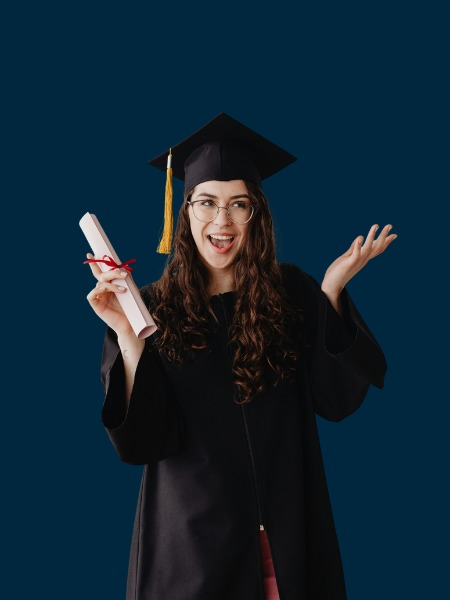
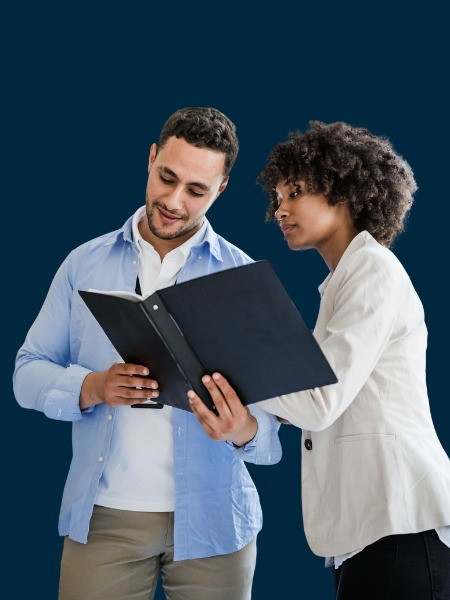
registeration page update

diff --git a/resources/views/pages/auth/register.blade.php b/resources/views/pages/auth/register.blade.php
@@ -106,8 +106,37 @@
         font-size: 13px;
     }
 
-        {
+    .form-control,
+    select {
         font-size: 13px;
+        background: #fff;
+        color: #000;
+    }
+
+    /* Hide conditional fields initially */
+    .conditional-fields {
+        display: none;
+    }
+
+    /* Terms checkbox label */
+    .terms-label {
+        font-size: 13px;
+        color: #fff;
+        user-select: none;
+    }
+
+    /* For mobile and country code side by side */
+    .mobile-group {
+        display: flex;
+        gap: 8px;
+    }
+
+    .mobile-group select {
+        flex: 0 0 100px;
+    }
+
+    .mobile-group input {
+        flex: 1;
     }
 </style>
 
@@ -131,7 +160,7 @@
                             <span>5</span>
                         </div>
 
-                        <form id="multiStepForm">
+                        <form id="multiStepForm" onsubmit="return false;">
 
                             {{-- STEP 1 --}}
                             <div class="form-step active">
@@ -147,7 +176,7 @@
                                 </div>
                             </div>
 
-                            {{-- STEP 2 --}}
+                            {{-- STEP 2: PERSONAL INFO --}}
                             <div class="form-step">
                                 <div class="row align-items-center g-4">
                                     <div class="col-md-6 step-image img-left">
@@ -155,56 +184,169 @@
                                     </div>
                                     <div class="col-md-6 step-form">
                                         <h6 class="mb-3 text-light">Personal Information</h6>
-                                        <input class="form-control  mb-4" placeholder="Full Name">
-                                        <input class="form-control  mb-4" placeholder="Email">
-                                        <input class="form-control  mb-4" placeholder="Phone">
-                                        <input type="date" class="form-control ">
+                                        <label for="fullName" class="text-light">Full Name</label>
+                                        <input id="fullName" name="fullName" type="text" class="form-control mb-3"
+                                            placeholder="Full Name" required>
+
+                                        <label for="cnic" class="text-light">CNIC / Passport No</label>
+                                        <input id="cnic" name="cnic" type="text" class="form-control mb-3"
+                                            placeholder="CNIC / Passport No" required>
+
+                                        <label for="personalEmail" class="text-light">Personal Email</label>
+                                        <input id="personalEmail" name="personalEmail" type="email"
+                                            class="form-control mb-3" placeholder="Personal Email" required>
+
+                                        <label class="text-light">Mobile Number</label>
+                                        <div class="mobile-group mb-3">
+                                            <select id="countryCode" name="countryCode" class="form-control" required>
+                                                <option value="+92" selected>+92 (PK)</option>
+                                                <option value="+1">+1 (US)</option>
+                                                <option value="+44">+44 (UK)</option>
+                                                <option value="+61">+61 (AU)</option>
+                                                <!-- Add more country codes as needed -->
+                                            </select>
+                                            <input id="mobileNumber" name="mobileNumber" type="tel"
+                                                class="form-control" placeholder="Mobile Number" required
+                                                pattern="[0-9]{7,15}" title="Please enter valid number">
+                                        </div>
+
+                                        <label for="currentCountry" class="text-light">Current Country</label>
+                                        <select id="currentCountry" name="currentCountry" class="form-control mb-3"
+                                            required>
+                                            <option value="" disabled selected>Select Country</option>
+                                            <option value="Pakistan">Pakistan</option>
+                                            <option value="United States">United States</option>
+                                            <option value="United Kingdom">United Kingdom</option>
+                                            <option value="Australia">Australia</option>
+                                            <!-- Add more countries as needed -->
+                                        </select>
+
+                                        <label for="currentCity" class="text-light">Current City</label>
+                                        <select id="currentCity" name="currentCity" class="form-control mb-3" required>
+                                            <option value="" disabled selected>Select City</option>
+                                            <!-- Cities could dynamically load based on country selection, example static list: -->
+                                            <option value="Karachi">Karachi</option>
+                                            <option value="Lahore">Lahore</option>
+                                            <option value="Islamabad">Islamabad</option>
+                                            <option value="New York">New York</option>
+                                            <option value="London">London</option>
+                                            <option value="Sydney">Sydney</option>
+                                        </select>
                                     </div>
                                 </div>
                             </div>
 
-                            {{-- STEP 3 --}}
+                            {{-- STEP 3: EDUCATION --}}
                             <div class="form-step">
                                 <div class="row align-items-center g-4">
                                     <div class="col-md-6 step-form">
                                         <h6 class="mb-3 text-light">Education</h6>
-                                        <input class="form-control  mb-4" placeholder="Qualification">
-                                        <input class="form-control  mb-4" placeholder="Institute">
-                                        <input class="form-control  mb-4" placeholder="Passing Year">
-                                        <input class="form-control " placeholder="CGPA / Grade">
+
+                                        <label for="nustRegNo" class="text-light">NUST Registration Number</label>
+                                        <input id="nustRegNo" name="nustRegNo" type="text" class="form-control mb-3"
+                                            placeholder="NUST Registration Number" required>
+
+                                        <label for="degreeName" class="text-light">Degree Name</label>
+                                        <select id="degreeName" name="degreeName" class="form-control mb-3" required>
+                                            <option value="" disabled selected>Select Degree</option>
+                                            <option value="Bachelors">Bachelors</option>
+                                            <option value="Masters">Masters</option>
+                                            <option value="PhD">PhD</option>
+                                        </select>
+
+                                        <label for="school" class="text-light">School</label>
+                                        <select id="school" name="school" class="form-control mb-3" required>
+                                            <option value="" disabled selected>Select School</option>
+                                            <option value="School of Engineering">School of Engineering</option>
+                                            <option value="School of Business">School of Business</option>
+                                            <option value="School of Science">School of Science</option>
+                                            <!-- Add more schools as needed -->
+                                        </select>
+
+                                        <label for="discipline" class="text-light">Discipline</label>
+                                        <select id="discipline" name="discipline" class="form-control mb-3" required>
+                                            <option value="" disabled selected>Select Discipline</option>
+                                            <option value="Computer Science">Computer Science</option>
+                                            <option value="Electrical Engineering">Electrical Engineering</option>
+                                            <option value="Mechanical Engineering">Mechanical Engineering</option>
+                                            <option value="Business Administration">Business Administration</option>
+                                            <!-- Add more disciplines as needed -->
+                                        </select>
+
+                                        <label for="enrolmentYear" class="text-light">Enrolment Year</label>
+                                        <input id="enrolmentYear" name="enrolmentYear" type="number" min="1900"
+                                            max="2100" class="form-control mb-3" placeholder="Enrolment Year"
+                                            required>
+
+                                        <label for="graduationYear" class="text-light">Graduation Year</label>
+                                        <input id="graduationYear" name="graduationYear" type="number"
+                                            min="1900" max="2100" class="form-control mb-3"
+                                            placeholder="Graduation Year" required>
                                     </div>
                                     <div class="col-md-6 step-image img-right">
-                                        <img src="{{ asset('templates/img/register/a.jpeg') }}">
+                                        <img src="{{ asset('templates/img/register/b.jpeg') }}">
                                     </div>
                                 </div>
                             </div>
 
-                            {{-- STEP 4 --}}
+                            {{-- STEP 4: PROFESSIONAL --}}
                             <div class="form-step">
                                 <div class="row align-items-center g-4">
                                     <div class="col-md-6 step-image img-left">
-                                        <img src="{{ asset('templates/img/register/a.jpeg') }}">
+                                        <img src="{{ asset('templates/img/register/c.jpeg') }}">
                                     </div>
                                     <div class="col-md-6 step-form">
                                         <h6 class="mb-3 text-light">Professional</h6>
-                                        <input class="form-control  mb-4" placeholder="Profession">
-                                        <input class="form-control  mb-4" placeholder="Experience">
-                                        <input class="form-control  mb-4" placeholder="Company">
-                                        <input class="form-control " placeholder="Location">
+
+                                        <label for="currentStatus" class="text-light">Current Status</label>
+                                        <select id="currentStatus" name="currentStatus" class="form-control mb-3"
+                                            required>
+                                            <option value="" disabled selected>Select Status</option>
+                                            <option value="Employed">Employed</option>
+                                            <option value="Self Employed">Self Employed</option>
+                                            <option value="Not Currently Employed">Not Currently Employed</option>
+                                        </select>
+
+                                        <div id="conditionalFields" class="conditional-fields">
+                                            <label for="currentOrganization" class="text-light">Current
+                                                Organization</label>
+                                            <input id="currentOrganization" name="currentOrganization" type="text"
+                                                class="form-control mb-3" placeholder="Current Organization">
+
+                                            <label for="designation" class="text-light">Designation</label>
+                                            <input id="designation" name="designation" type="text"
+                                                class="form-control mb-3" placeholder="Designation">
+                                        </div>
                                     </div>
                                 </div>
                             </div>
 
-                            {{-- STEP 5 --}}
+                            {{-- STEP 5: SECURITY --}}
                             <div class="form-step">
                                 <div class="row align-items-center g-4">
                                     <div class="col-md-6 step-form">
                                         <h6 class="mb-3 text-light">Security</h6>
-                                        <input type="password" class="form-control  mb-4" placeholder="Password">
-                                        <input type="password" class="form-control " placeholder="Confirm Password">
+
+                                        <label for="password" class="text-light">Password</label>
+                                        <input id="password" name="password" type="password"
+                                            class="form-control mb-3" placeholder="Password" required
+                                            pattern="(?=.*\d)(?=.*[a-z])(?=.*[A-Z])(?=.*[\W_]).{8,}"
+                                            title="Must contain at least one uppercase, one lowercase, one special character, one number and minimum 8 characters">
+
+                                        <label for="confirmPassword" class="text-light">Confirm Password</label>
+                                        <input id="confirmPassword" name="confirmPassword" type="password"
+                                            class="form-control mb-3" placeholder="Confirm Password" required>
+
+                                        <div class="form-check mt-3">
+                                            <input class="form-check-input" type="checkbox" id="termsCheck" required>
+                                            <label class="form-check-label terms-label" for="termsCheck">
+                                                I agree to the <a href="#" class="text-warning">Terms and
+                                                    Conditions</a>
+                                            </label>
+                                        </div>
                                     </div>
                                     <div class="col-md-6 step-image img-right">
-                                        <img src="{{ asset('templates/img/register/a.jpeg') }}">
+                                        <img src="{{ asset('templates/img/register/d.jpeg') }}">
                                     </div>
                                 </div>
                             </div>
@@ -223,12 +365,38 @@
         </div>
     </div>
 
+    <!-- Modal -->
+    <div class="modal fade" id="registrationSuccessModal" tabindex="-1"
+        aria-labelledby="registrationSuccessModalLabel" aria-hidden="true">
+        <div class="modal-dialog modal-dialog-centered">
+            <div class="modal-content text-dark">
+                <div class="modal-header">
+                    <h5 class="modal-title" id="registrationSuccessModalLabel">Registration Successful</h5>
+                    <button type="button" class="btn-close" data-bs-dismiss="modal" aria-label="Close"></button>
+                </div>
+                <div class="modal-body">
+                    <p>Thank you for registering!</p>
+                    <p>Once your account is verified, you’ll be able to log in and access your account.</p>
+                    <p>If your account is not verified after 3 days, please email us your degree or transcript for
+                        manual verification.</p>
+                </div>
+                <div class="modal-footer">
+                    <button type="button" class="btn btn-primary" data-bs-dismiss="modal">Close</button>
+                </div>
+            </div>
+        </div>
+    </div>
+
     <script>
         const steps = document.querySelectorAll('.form-step');
         const indicators = document.querySelectorAll('.step-indicator span');
         const prevBtn = document.getElementById('prevBtn');
         const nextBtn = document.getElementById('nextBtn');
         const startBtn = document.getElementById('startBtn');
+        const currentStatus = document.getElementById('currentStatus');
+        const conditionalFields = document.getElementById('conditionalFields');
+        const password = document.getElementById('password');
+        const confirmPassword = document.getElementById('confirmPassword');
 
         let currentStep = 0;
 
@@ -253,7 +421,33 @@
                 currentStep++;
                 updateSteps();
             } else {
-                document.getElementById('multiStepForm').submit();
+                // Password match check
+                if (password.value !== confirmPassword.value) {
+                    alert("Passwords do not match.");
+                    return;
+                }
+
+                // Terms checkbox check
+                const termsCheck = document.getElementById('termsCheck');
+                if (!termsCheck.checked) {
+                    alert('Please agree to the Terms and Conditions before submitting.');
+                    return;
+                }
+
+                // Form validation
+                if (!document.getElementById('multiStepForm').checkValidity()) {
+                    document.getElementById('multiStepForm').reportValidity();
+                    return;
+                }
+
+                // If all good, show modal popup
+                var modal = new bootstrap.Modal(document.getElementById('registrationSuccessModal'));
+                modal.show();
+
+                // Optionally: reset form or disable navigation after success
+                // document.getElementById('multiStepForm').reset();
+                // nextBtn.disabled = true;
+                // prevBtn.disabled = true;
             }
         };
 
@@ -261,6 +455,20 @@
             currentStep--;
             updateSteps();
         };
+
+        // Show/hide conditional fields based on dropdown selection
+        currentStatus.addEventListener('change', () => {
+            const val = currentStatus.value;
+            if (val === 'Employed' || val === 'Self Employed') {
+                conditionalFields.style.display = 'block';
+                document.getElementById('currentOrganization').required = true;
+                document.getElementById('designation').required = true;
+            } else {
+                conditionalFields.style.display = 'none';
+                document.getElementById('currentOrganization').required = false;
+                document.getElementById('designation').required = false;
+            }
+        });
 
         updateSteps();
     </script>

diff --git a/resources/views/layouts/templates/advance-search.blade.php b/resources/views/layouts/templates/advance-search.blade.php
@@ -74,7 +74,7 @@
         <div class="modal-content p-0 border-0 bg-transparent">
 
             <div class="blurred-container rounded p-4 shadow">
-                <h5 class="text-center mb-4 text-white fw-bold">Sample Alumni Profiles</h5>
+                <h5 class="text-center mb-4 text-white fw-bold">Results</h5>
 
                 <div class="d-flex flex-wrap justify-content-center gap-3 mb-4">
                     <!-- User Cards -->
